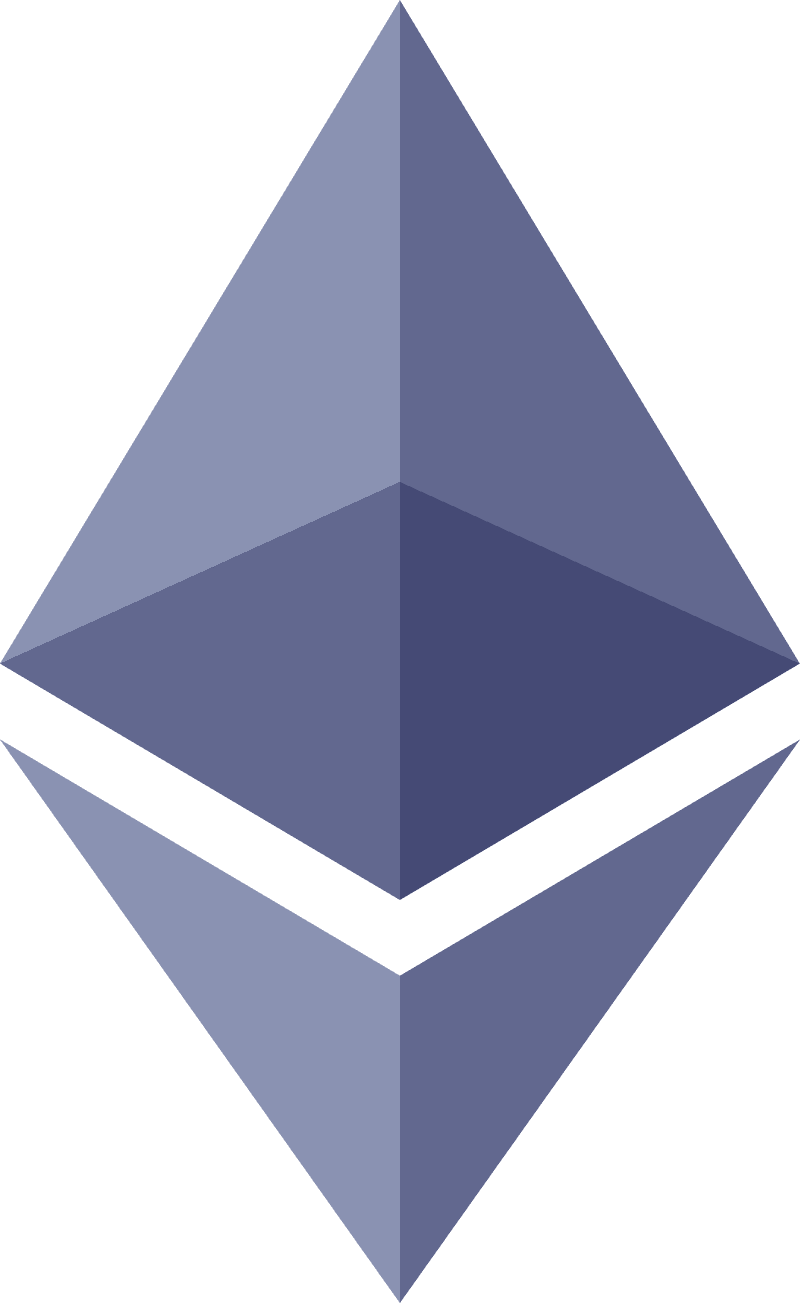
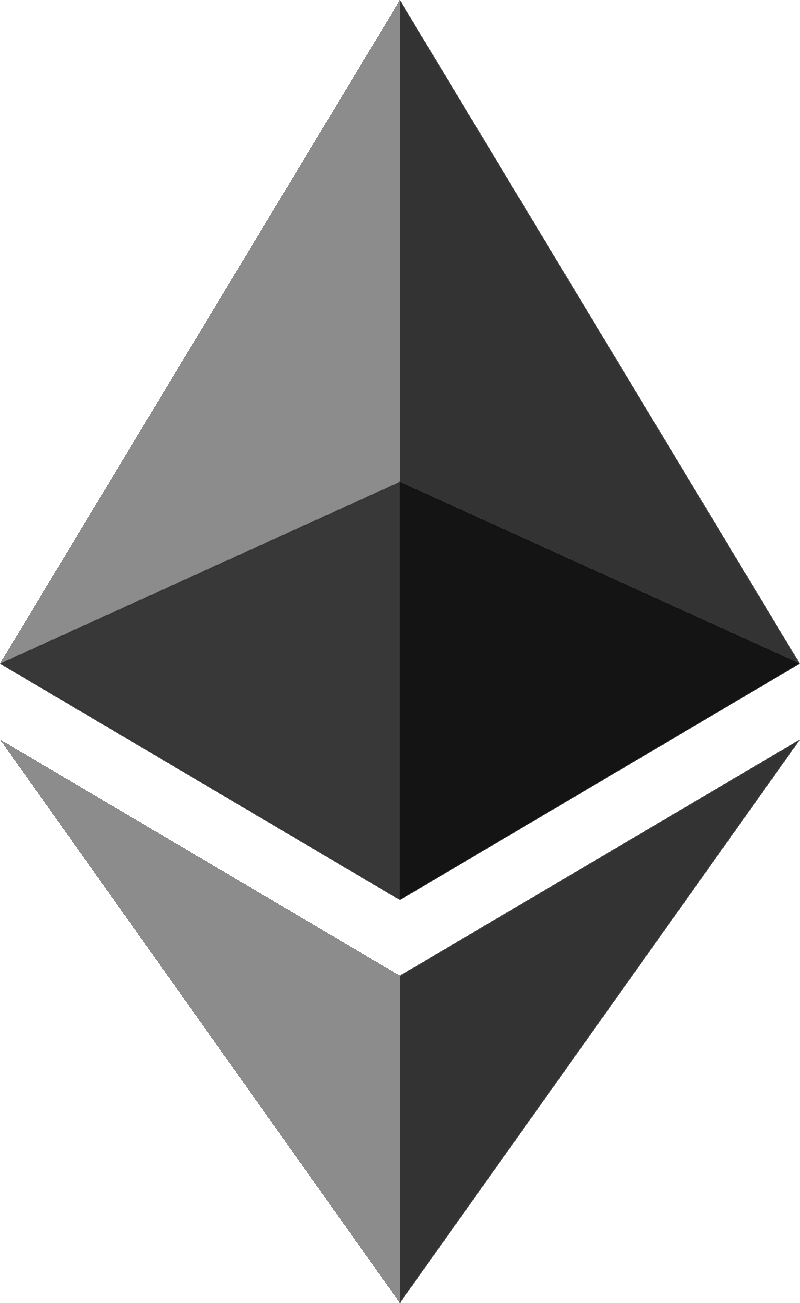
trigger_05-11:38:32

diff --git a/app/savings/early-withdrawal.tsx b/app/savings/early-withdrawal.tsx
@@ -1,4 +1,4 @@
-import React, { useState, useEffect, useRef } from "react";
+import React, { useState, useEffect, useRef, useMemo } from "react";
 import {
   View,
   Text,
@@ -31,54 +31,9 @@ import Slider from "@react-native-community/slider";
 import { BlurView } from "expo-blur";
 import { SavingsPool } from "../../models/savings";
 import StatusModal from "../../components/modals/StatusModal";
+import { getEthereumLogo } from "../../utils/themeUtils";
 
 const { width } = Dimensions.get("window");
-
-// Mock charity data - in production this would come from an API
-const CHARITIES = [
-  {
-    id: "1",
-    name: "Global Water Foundation",
-    description: "Providing clean water to communities in need",
-    logo: require("../../assets/images/ethereum.png"), // Using existing assets as placeholders
-    website: "https://water.org",
-    address: "0x66aAf3098E1eB1F24348e84F509d8bcfD92D0620",
-  },
-  {
-    id: "2",
-    name: "Climate Action Now",
-    description: "Fighting climate change through reforestation",
-    logo: require("../../assets/images/ethereum.png"),
-    website: "https://climateactionnow.org",
-    address: "0x66aAf3098E1eB1F24348e84F509d8bcfD92D0620",
-  },
-  {
-    id: "3",
-    name: "Education For All",
-    description: "Supporting education in underserved communities",
-    logo: require("../../assets/images/usdc.png"),
-    website: "https://educationforall.org",
-    address: "0x66aAf3098E1eB1F24348e84F509d8bcfD92D0620",
-  },
-  {
-    id: "4",
-    name: "Hunger Relief Initiative",
-    description: "Providing meals to those facing food insecurity",
-    logo: require("../../assets/images/usdc.png"),
-    website: "https://hungerrelief.org",
-    address: "0x66aAf3098E1eB1F24348e84F509d8bcfD92D0620",
-  },
-];
-
-// Define a Charity type for better type safety
-type Charity = {
-  id: string;
-  name: string;
-  description: string;
-  logo: any;
-  website: string;
-  address: string;
-};
 
 export default function EarlyWithdrawalScreen() {
   const router = useRouter();
@@ -88,6 +43,58 @@ export default function EarlyWithdrawalScreen() {
     useSavingsPool();
   const { address } = useWallet();
   const isDarkMode = activeTheme === "dark";
+
+  // Get theme-based Ethereum logo
+  const ethLogo = getEthereumLogo(activeTheme);
+
+  // Mock charity data - in production this would come from an API
+  const CHARITIES = useMemo(
+    () => [
+      {
+        id: "1",
+        name: "Global Water Foundation",
+        description: "Providing clean water to communities in need",
+        logo: ethLogo,
+        website: "https://water.org",
+        address: "0x66aAf3098E1eB1F24348e84F509d8bcfD92D0620",
+      },
+      {
+        id: "2",
+        name: "Climate Action Now",
+        description: "Fighting climate change through reforestation",
+        logo: ethLogo,
+        website: "https://climateactionnow.org",
+        address: "0x66aAf3098E1eB1F24348e84F509d8bcfD92D0620",
+      },
+      {
+        id: "3",
+        name: "Education For All",
+        description: "Supporting education in underserved communities",
+        logo: ethLogo,
+        website: "https://educationforall.org",
+        address: "0x66aAf3098E1eB1F24348e84F509d8bcfD92D0620",
+      },
+      {
+        id: "4",
+        name: "Hunger Relief Initiative",
+        description: "Providing meals to those facing food insecurity",
+        logo: ethLogo,
+        website: "https://hungerrelief.org",
+        address: "0x66aAf3098E1eB1F24348e84F509d8bcfD92D0620",
+      },
+    ],
+    [ethLogo]
+  );
+
+  // Define a Charity type for better type safety
+  type Charity = {
+    id: string;
+    name: string;
+    description: string;
+    logo: any;
+    website: string;
+    address: string;
+  };
 
   // Animation values
   const fadeAnim = useRef(new Animated.Value(0)).current;

diff --git a/app/tabs/savings.tsx b/app/tabs/savings.tsx
@@ -29,6 +29,7 @@ import * as Haptics from "expo-haptics";
 import { MotiView } from "moti";
 import LottieView from "lottie-react-native";
 import StatusModal from "../../components/modals/StatusModal";
+import { getEthereumLogo } from "../../utils/themeUtils";
 
 const { width } = Dimensions.get("window");
 
@@ -54,7 +55,7 @@ export default function SavingsScreen() {
   const [statusModalTxHash, setStatusModalTxHash] = useState("");
 
   // Import token logos
-  const ethLogo = require("../../assets/images/ethereum.png");
+  const ethLogo = getEthereumLogo(activeTheme);
   const usdcLogo = require("../../assets/images/usdc.png");
 
   // Animation value for header
@@ -311,6 +312,24 @@ export default function SavingsScreen() {
   }) => {
     const tokenLogo = getLogoForToken(pool.tokenSymbol);
     const progressWidth = `${pool.progress || 0}%`;
+    
+    // Define token logo border style based on theme
+    const tokenBorderStyle = {
+      borderWidth: 2,
+      borderColor: isDarkMode ? "rgba(255, 255, 255, 0.2)" : "rgba(0, 0, 0, 0.1)",
+      overflow: "hidden" as const,
+    };
+
+    // Define logo container style for proper padding
+    const logoContainerStyle = {
+      padding: 6,
+      backgroundColor: isDarkMode ? "rgba(255, 255, 255, 0.05)" : "rgba(0, 0, 0, 0.02)",
+      borderRadius: 22, // Slightly larger than the logo to account for padding
+      width: 44,
+      height: 44,
+      justifyContent: "center" as const,
+      alignItems: "center" as const,
+    };
 
     // Create detail items with keys
     const poolDetails = [
@@ -370,12 +389,18 @@ export default function SavingsScreen() {
         <View style={styles.poolCardHeader}>
           <View style={styles.poolCardHeaderLeft}>
             {tokenLogo ? (
-              <Image source={tokenLogo} style={styles.tokenLogo} />
+              <View style={[logoContainerStyle, tokenBorderStyle]}>
+                <Image 
+                  source={tokenLogo} 
+                  style={styles.tokenLogo}
+                />
+              </View>
             ) : (
               <View
                 style={[
                   styles.tokenLogoFallback,
-                  { backgroundColor: pool.isEth ? "#627EEA" : "#2775CA" },
+                  { backgroundColor: pool.isEth ? "#454A75" : "#2775CA" },
+                  tokenBorderStyle
                 ]}
               >
                 <Text style={styles.tokenLogoText}>
@@ -1024,9 +1049,8 @@ const styles = StyleSheet.create({
     alignItems: "center",
   },
   tokenLogo: {
-    width: 40,
-    height: 40,
-    borderRadius: 20,
+    width: 32,
+    height: 32,
     resizeMode: "contain",
   },
   tokenLogoFallback: {

diff --git a/app/tabs/home.tsx b/app/tabs/home.tsx
@@ -33,6 +33,7 @@ import { RootStackParamList } from "../../navigation/types";
 import { useRouter } from "expo-router";
 import { useTokenBalances } from "../../hooks/useTokenBalances";
 import * as Font from "expo-font";
+import { getEthereumLogo } from "../../utils/themeUtils";
 
 const { width } = Dimensions.get("window");
 
@@ -45,7 +46,7 @@ const recentActivity = [
     amount: "-0.05 ETH",
     type: "swap",
     avatar: "S",
-    avatarColor: "#627EEA",
+    avatarColor: "#454A75",
   },
   {
     id: "2",
@@ -130,11 +131,11 @@ export default function HomeScreen() {
     isPositive: parseFloat(token.priceChange24h || "0.00") >= 0,
     logo:
       token.symbol === "ETH"
-        ? require("../../assets/images/ethereum.png")
+        ? getEthereumLogo(activeTheme)
         : require("../../assets/images/usdc.png"),
     gradientColors:
       token.symbol === "ETH"
-        ? (["#627EEA", "#3C5BE0"] as [string, string])
+        ? (["#6B8AFF", "#454A75"] as [string, string])
         : (["#2775CA", "#2775CA"] as [string, string]),
   }));
 

diff --git a/app/savings/create.tsx b/app/savings/create.tsx
@@ -32,6 +32,7 @@ import { useTheme } from "../../contexts/ThemeContext";
 import { useTokenBalances } from "../../hooks/useTokenBalances";
 import CreateTokenBalanceCard from "../../components/wallet/CreateTokenBalanceCard";
 import StatusModal from "../../components/modals/StatusModal";
+import { getEthereumLogo } from "../../utils/themeUtils";
 
 // Enable LayoutAnimation for Android
 if (
@@ -42,7 +43,6 @@ if (
 }
 
 // Import token logos
-const ethLogo = require("../../assets/images/ethereum.png");
 const usdcLogo = require("../../assets/images/usdc.png");
 
 // Constants for measurements and animations
@@ -93,6 +93,9 @@ export default function CreateSavingsScreen() {
     useSavingsPool();
   const { activeTheme } = useTheme();
   const { balances, refreshBalances } = useTokenBalances();
+
+  // Get theme-based Ethereum logo
+  const ethLogo = getEthereumLogo(activeTheme);
 
   // Cache token balances and prices
   const [cachedBalances, setCachedBalances] = useState<{

diff --git a/components/wallet/TokenBalanceCard.tsx b/components/wallet/TokenBalanceCard.tsx
@@ -71,15 +71,17 @@ const TokenBalanceCard: React.FC<TokenBalanceCardProps> = ({
       flex: 1,
     },
     logoContainer: {
-      width: 40,
-      height: 40,
-      borderRadius: 20,
-      backgroundColor: "rgba(255, 255, 255, 0.25)",
+      width: 48,
+      height: 48,
+      borderRadius: 24,
+      backgroundColor: "rgba(80, 80, 100, 0.5)",
       justifyContent: "center",
       alignItems: "center",
       marginRight: 12,
-      padding: 8,
+      padding: 0,
       overflow: "hidden",
+      borderWidth: 1,
+      borderColor: "rgba(255, 255, 255, 0.4)",
       ...Platform.select({
         ios: {
           shadowColor: "rgba(0, 0, 0, 0.2)",
@@ -93,8 +95,8 @@ const TokenBalanceCard: React.FC<TokenBalanceCardProps> = ({
       }),
     },
     tokenLogo: {
-      width: 22,
-      height: 22,
+      width: 40,
+      height: 40,
       resizeMode: "contain",
     },
     nameContainer: {

diff --git a/app/withdraw.tsx b/app/withdraw.tsx
@@ -28,9 +28,9 @@ import { useTokenBalances } from "../hooks/useTokenBalances";
 import { useEmbeddedEthereumWallet } from "@privy-io/expo";
 import StatusModal from '../components/modals/StatusModal';
 import { Clipboard } from 'react-native';
+import { getEthereumLogo } from '../utils/themeUtils';
 
 // Import token logos
-const ethLogo = require("../assets/images/ethereum.png");
 const usdcLogo = require("../assets/images/usdc.png");
 
 // USDC contract ABI (minimal for balanceOf)
@@ -102,6 +102,9 @@ export default function WithdrawScreen() {
   // Initialize tokens with loading state
   const [tokens, setTokens] = useState<Token[]>([]);
   const [selectedToken, setSelectedToken] = useState<Token | null>(null);
+
+  // Get theme-based Ethereum logo
+  const ethLogo = getEthereumLogo(activeTheme);
 
   // Update tokens and selected token when balances are loaded
   useEffect(() => {

diff --git a/app/deposit.tsx b/app/deposit.tsx
@@ -15,9 +15,9 @@ import * as Clipboard from 'expo-clipboard';
 import Colors from '../constants/Colors';
 import { useTheme } from '../contexts/ThemeContext';
 import { useWallet } from '../context/WalletContext';
+import { getEthereumLogo } from '../utils/themeUtils';
 
 // Import token logos
-const ethLogo = require('../assets/images/ethereum.png');
 const usdcLogo = require('../assets/images/usdc.png');
 
 type ColorScheme = {
@@ -42,6 +42,9 @@ export default function DepositScreen() {
   const { activeTheme } = useTheme();
   const { address } = useWallet();
   const isDarkMode = activeTheme === 'dark';
+
+  // Get theme-based Ethereum logo
+  const ethLogo = getEthereumLogo(activeTheme);
 
   // Format address to show only start and end
   const formatAddress = (addr: string | null) => {

diff --git a/utils/themeUtils.ts b/utils/themeUtils.ts
@@ -1,0 +1,14 @@
+/**
+ * Utility functions for theme-related operations
+ */
+
+/**
+ * Returns the appropriate Ethereum logo based on the current theme
+ * @param theme The current theme ('light' or 'dark')
+ * @returns The Ethereum logo image source
+ */
+export const getEthereumLogo = (theme: 'light' | 'dark') => {
+  return theme === 'light'
+    ? require('../assets/images/ethereum.png')
+    : require('../assets/images/ethereums.png');
+};

diff --git a/components/savings/SavingsPoolCard.tsx b/components/savings/SavingsPoolCard.tsx
@@ -76,7 +76,7 @@ const SavingsPoolCard: React.FC<SavingsPoolCardProps> = ({
           <View
             style={[
               styles.tokenIcon,
-              { backgroundColor: pool.isEth ? "#627EEA" : "#F0B90B" },
+              { backgroundColor: pool.isEth ? "#454A75" : "#F0B90B" },
             ]}
           >
             <Text style={styles.tokenSymbol}>{tokenSymbol.charAt(0)}</Text>

diff --git a/components/wallet/CreateTokenBalanceCard.tsx b/components/wallet/CreateTokenBalanceCard.tsx
@@ -92,9 +92,9 @@ export default function CreateTokenBalanceCard({ token }: CreateTokenBalanceCard
     },
   });
 
-  // Define gradient colors based on token
+  // Get gradient colors based on token
   const gradientColors = token.symbol === 'ETH' 
-    ? ['#627EEA', '#3C5EE7'] as const
+    ? ['#6B8AFF', '#454A75'] as const
     : ['#2775CA', '#2775CA'] as const;
 
   return (

diff --git a/constants/Colors.ts b/constants/Colors.ts
@@ -9,7 +9,7 @@ const accentBlueDark = '#1565C0';
 const accentBlueLight = '#64B5F6';
 
 // Token colors
-const ethGradient = ['#627EEA', '#3C5BE0'];
+const ethGradient = ['#6B8AFF', '#454A75'];
 const usdcGradient = ['#2775CA', '#2775CA'];
 const usdtGradient = ['#26A17B', '#1A9270'];
 const maticGradient = ['#8247E5', '#6F3CD0'];
